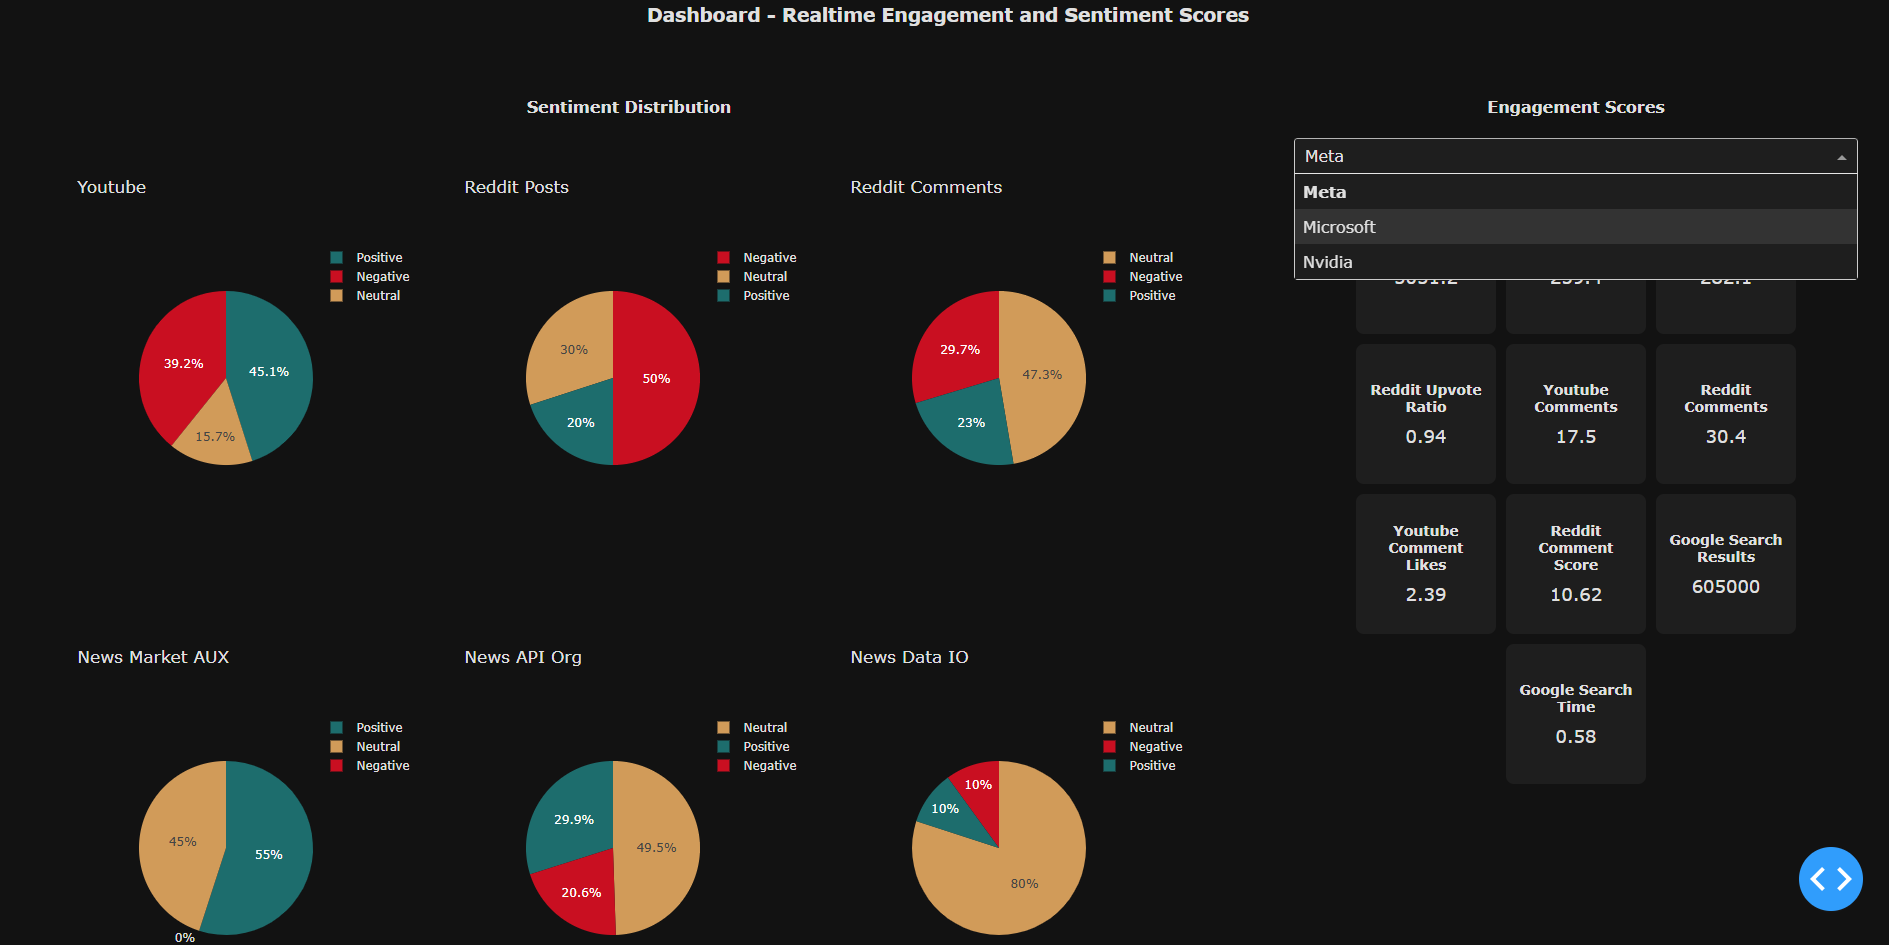
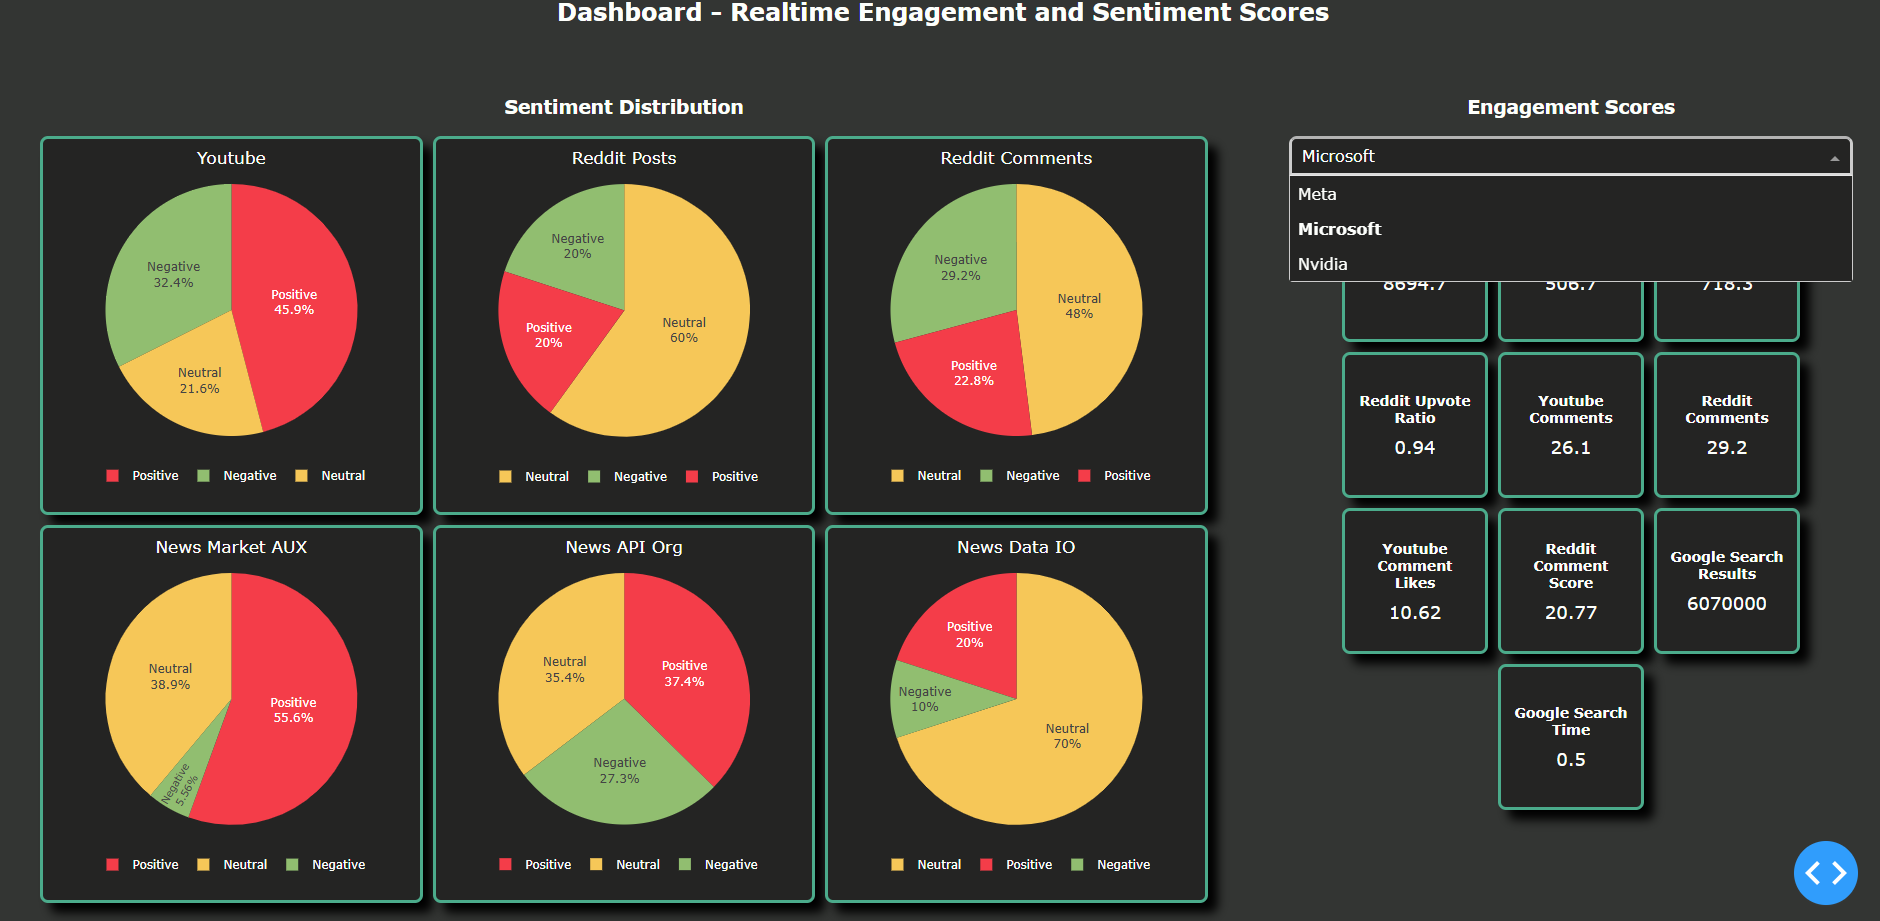
updated dashboard

diff --git a/src/dashboard/assets/style.css b/src/dashboard/assets/style.css
@@ -1,5 +1,18 @@
+:root {
+    --div_bg: #333533;
+    --div_txt: #fdfffc;
+
+    --select_bg: #242423;
+    --select_txt: #fdfffc;
+
+    --card_bg: #242423;
+    --card_txt: #fdfffc;
+
+    --border_bg: #43aa8b;
+}
+
 html, body {
-    background-color: #1e1e1e !important;
+    background-color: var(--select_bg) !important;
     height: 100%;
     margin: 0;
     padding: 0;
@@ -16,31 +29,86 @@ html, body {
 }
 
 .Select-control {
-    background-color: #1e1e1e !important;
-    color: #E0E0E0 !important;
+    background-color: var(--select_bg) !important;
+    color: var(--select_txt) !important;
+    
+    border-width: 3px;
+    border-color: var(--border_bg);
+    border-style: solid;
+    border-radius: 8px;
 }
 
 .Select-value {
-    background-color: #1e1e1e !important;
-    color: #E0E0E0 !important;
+    background-color: var(--select_bg) !important;
+    color: var(--select_txt) !important;
 }
 
 .Select-value-label {
-    background-color: #1e1e1e !important;
-    color: #E0E0E0 !important;
+    background-color: var(--select_bg) !important;
+    color: var(--select_txt) !important;
 }
 
 .Select-menu {
-    background-color: #1e1e1e !important;
-    color: #E0E0E0 !important;
+    background-color: var(--select_bg) !important;
+    color: var(--select_txt) !important;
 }
 
 .VirtualizedSelectOption {
-    background-color: #1e1e1e !important;
-    color: #E0E0E0 !important;
+    background-color: var(--select_bg) !important;
+    color: var(--select_txt) !important;
 }
 
 .VirtualizedSelectFocusedOption {
-    background-color: #333 !important;
-    color: #E0E0E0 !important;
+    background-color: var(--select_bg) !important;
+    color: #ef8354;
+}
+
+.KpiBox {
+    background: var(--card_bg);
+    padding: 10px;
+    text-align: center;
+    display: flex;
+    flex-direction: column;
+    align-items: center;
+    justify-content: center;
+    width: 120px;
+    height: 120px;
+    color: var(--card_txt);
+    
+    /* More dominant, modern box shadow */
+    box-shadow: 10px 10px 10px rgba(0, 0, 0, 1);
+    transition: all 0.2s ease;
+
+    border-width: 3px;
+    border-color: var(--border_bg);
+    border-style: solid;
+    border-radius: 8px;
+}
+  
+.KpiBox:hover {
+    transform: translateY(-3px);
+    box-shadow: 20px 20px 20px rgba(0, 0, 0, 0.5);
+}
+  
+
+.KpiGrid {
+    display: flex;
+    flex-wrap: wrap;
+    justify-content: center;
+    gap: 10px;
+    padding: 10px;
+    background: var(--div_bg);
+    border-radius: 10px
+}
+
+.PieDiv {
+    background: var(--card_bg);
+
+    box-shadow: 10px 10px 10px rgba(0, 0, 0, 1);
+    transition: all 0.2s ease;
+
+    border-width: 3px;
+    border-color: var(--border_bg);
+    border-style: solid;
+    border-radius: 8px;
 }

diff --git a/src/dashboard/dashboard.py b/src/dashboard/dashboard.py
@@ -37,51 +37,36 @@ def get_data(company):
 
 app = dash.Dash(__name__)
 
-dark_theme = {"background": "#121212", "card": "#1E1E1E", "text": "#E0E0E0", "accent": "#A970FF"}
+dark_theme = {"background": "#333533", "card": "#242423", "text": "#fdfffc"}
 
 app.layout = html.Div([
-    html.H3("Dashboard - Realtime Engagement and Sentiment Scores", style={
-        "width": "100%", 
-        "textAlign": "center",
-        "margin": "0", 
-        "padding": "10px"
-    }),
+    html.H2("Dashboard - Realtime Engagement and Sentiment Scores", 
+            style={ "width": "100%",  "textAlign": "center", "margin": "0",  "padding": "10px"}),
 
     html.Div([
         # Pie Charts Section
         html.Div([
-            html.H4("Sentiment Distribution", style={"textAlign": "center", "color": dark_theme["text"]}),
+            html.H3("Sentiment Distribution", style={"textAlign": "center", "color": dark_theme["text"]}),
             html.Div([
-                dcc.Graph(id=f"pie-chart-{i+1}", 
-                        style={"width": "30%", "padding": "5px"})
+                dcc.Graph(id=f"pie-chart-{i+1}", style={"height": "38vh", "width": "30%", "padding": "5px"}, className="PieDiv")
                 for i in range(6)
-            ], style={"display": "flex", "flexWrap": "wrap", "gap": "10px", "justifyContent": "center"})
+            ], style={"display": "flex", "flexWrap": "wrap", "gap": "10px", "justifyContent": "center", "background": dark_theme["background"]})
         ], style={"width": "65%", "padding": "20px", "background": dark_theme["background"], "borderRadius": "10px"}),
 
         # KPI Section
         html.Div([
-            html.H4("Engagement Scores", style={"textAlign": "center", "color": dark_theme["text"]}),
+            html.H3("Engagement Scores", style={"textAlign": "center", "color": dark_theme["text"]}),
             dcc.Dropdown(
                 id="company-dropdown",
                 options=[{"label": c, "value": c} for c in fact_options()],
                 value=fact_options().iloc[0],
                 clearable=False,
-                style={"marginBottom": "10px", "backgroundColor": dark_theme["card"], "color": dark_theme["text"]}
+                style={"marginBottom": "10px", "backgroundColor": dark_theme["background"], "color": dark_theme["text"]},
             ),
-            html.Div(id="kpi-grid", style={
-                "display": "flex",
-                "flexWrap": "wrap",
-                "justifyContent": "center",
-                "gap": "10px",
-                "padding": "10px",
-                "background": dark_theme["background"],
-                "borderRadius": "10px"
-            })
+            html.Div(id="kpi-grid", className="KpiGrid")
         ], style={"width": "30%", "padding": "20px", "verticalAlign": "top"})
     ], style={"display": "flex", "justifyContent": "space-between", "padding": "20px"})
 ], style={"background": dark_theme["background"], "color": dark_theme["text"], "font-family": "Verdana, sans-serif"})
-
-
 
 @app.callback(
     [Output("kpi-grid", "children")] + [Output(f"pie-chart-{i+1}", "figure") for i in range(6)],
@@ -93,28 +78,46 @@ def update_dashboard(company):
         html.Div([
             html.Div(key, style={"fontSize": "14px", "fontWeight": "bold", "margin-bottom": "10px"}),
             html.Div(val, style={"fontSize": "18px"})
-        ], style={
-            "background": dark_theme["card"],
-            "padding": "10px",
-            "textAlign": "center",
-            "borderRadius": "8px",
-            "display": "flex",
-            "flexDirection": "column",
-            "alignItems": "center",
-            "justifyContent": "center",
-            "width": "120px",
-            "height": "120px",
-            "color": dark_theme["text"]
-        }) for key, val in data["kpis"].items()
+        ], className="KpiBox") for key, val in data["kpis"].items()
     ]
     
-    color_map = {"Positive": "#116D6E", "Neutral": "#D49B54", "Negative": "#CD1818"}
-    pie_charts = [
-        px.pie(entry["data"], names="sentiment", values="count", title=entry["title"],
-               color=entry["data"]["sentiment"], color_discrete_map=color_map)
-        .update_layout(paper_bgcolor=dark_theme["background"], font_color=dark_theme["text"])
-        for entry in data["pie_data"]
-    ]
+    # Define a color mapping for sentiments
+    color_map = {"Positive": "#f94144", "Neutral": "#f9c74f", "Negative": "#90be6d"}
+    
+    pie_charts = []
+    for entry in data["pie_data"]:
+        fig = px.pie(
+            entry["data"], 
+            names="sentiment", 
+            values="count", 
+            title=entry["title"],
+            color=entry["data"]["sentiment"],
+            color_discrete_map=color_map
+        )
+        
+        fig.update_layout(
+            title_x=0.5,
+            paper_bgcolor=dark_theme["card"],
+            font_color=dark_theme["text"],
+            legend=dict(
+                orientation="h",
+                x=0.5,
+                xanchor="center",
+                y=-0.1
+            ),
+            # Keep margins minimal so the pie itself is larger
+            margin=dict(l=0, r=0, t=40, b=70),
+            autosize=True
+        )
+        
+        fig.update_traces(
+            domain=dict(x=[0,1], y=[0,1]),
+            textposition='inside',
+            textinfo='percent+label'
+        )
+        
+        pie_charts.append(fig)
+
     
     return [kpi_boxes] + pie_charts
 

diff --git a/Readme.md b/Readme.md
@@ -74,6 +74,15 @@ We search the company name and related queries on these platforms and use the re
 
 
 
+# Tools Used:
+1. APIs listed below
+2. Duckdb
+3. Plotly Express
+4. Plotly Dash
+5. Pandas
+
+
+
 # How to run:
 1. Configure Project:
 ```
@@ -94,15 +103,6 @@ python -m venv .localenv
     ```
     .localenv\Scripts\python -m src.dashboard.dashboard
     ```
-
-
-
-# Tools:
-1. APIs listed below
-2. Duckdb
-3. Plotly Express
-4. Plotly Dash
-5. Pandas
 
 
 
